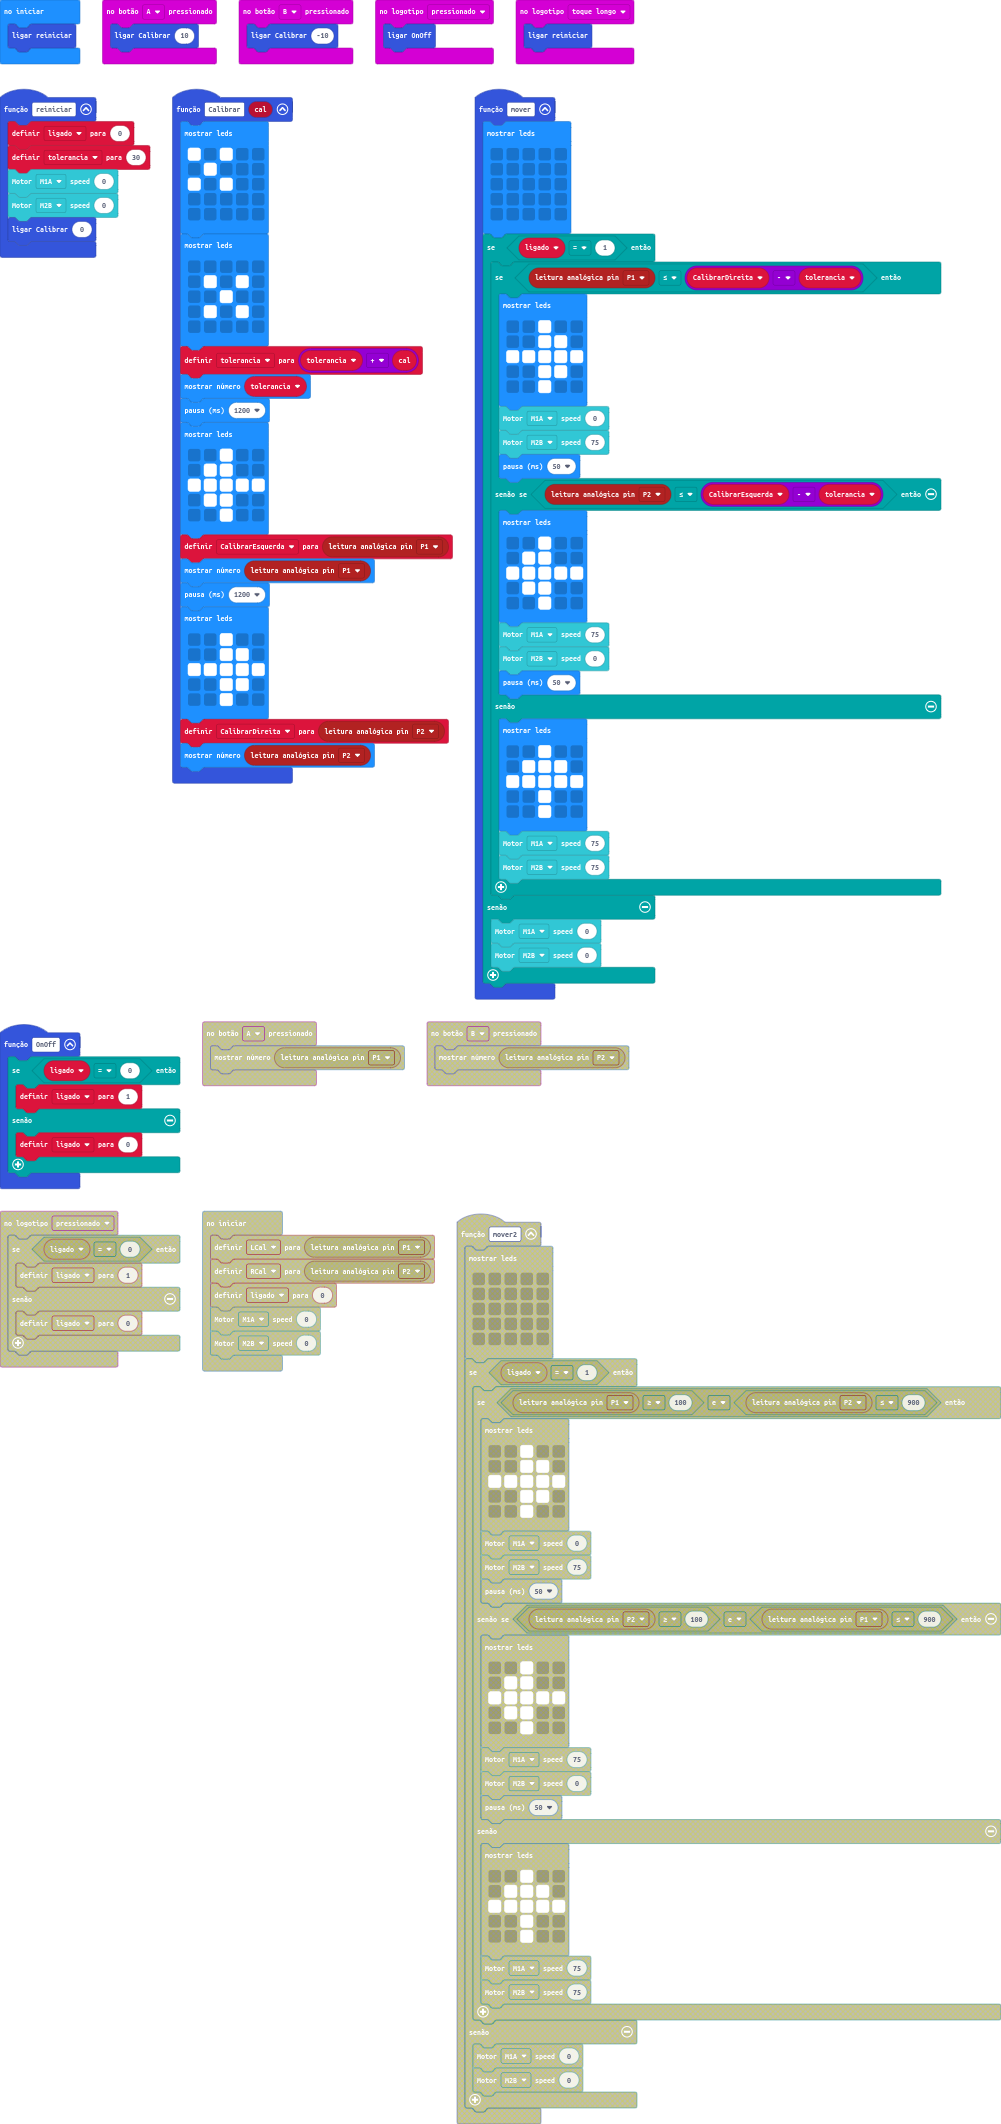
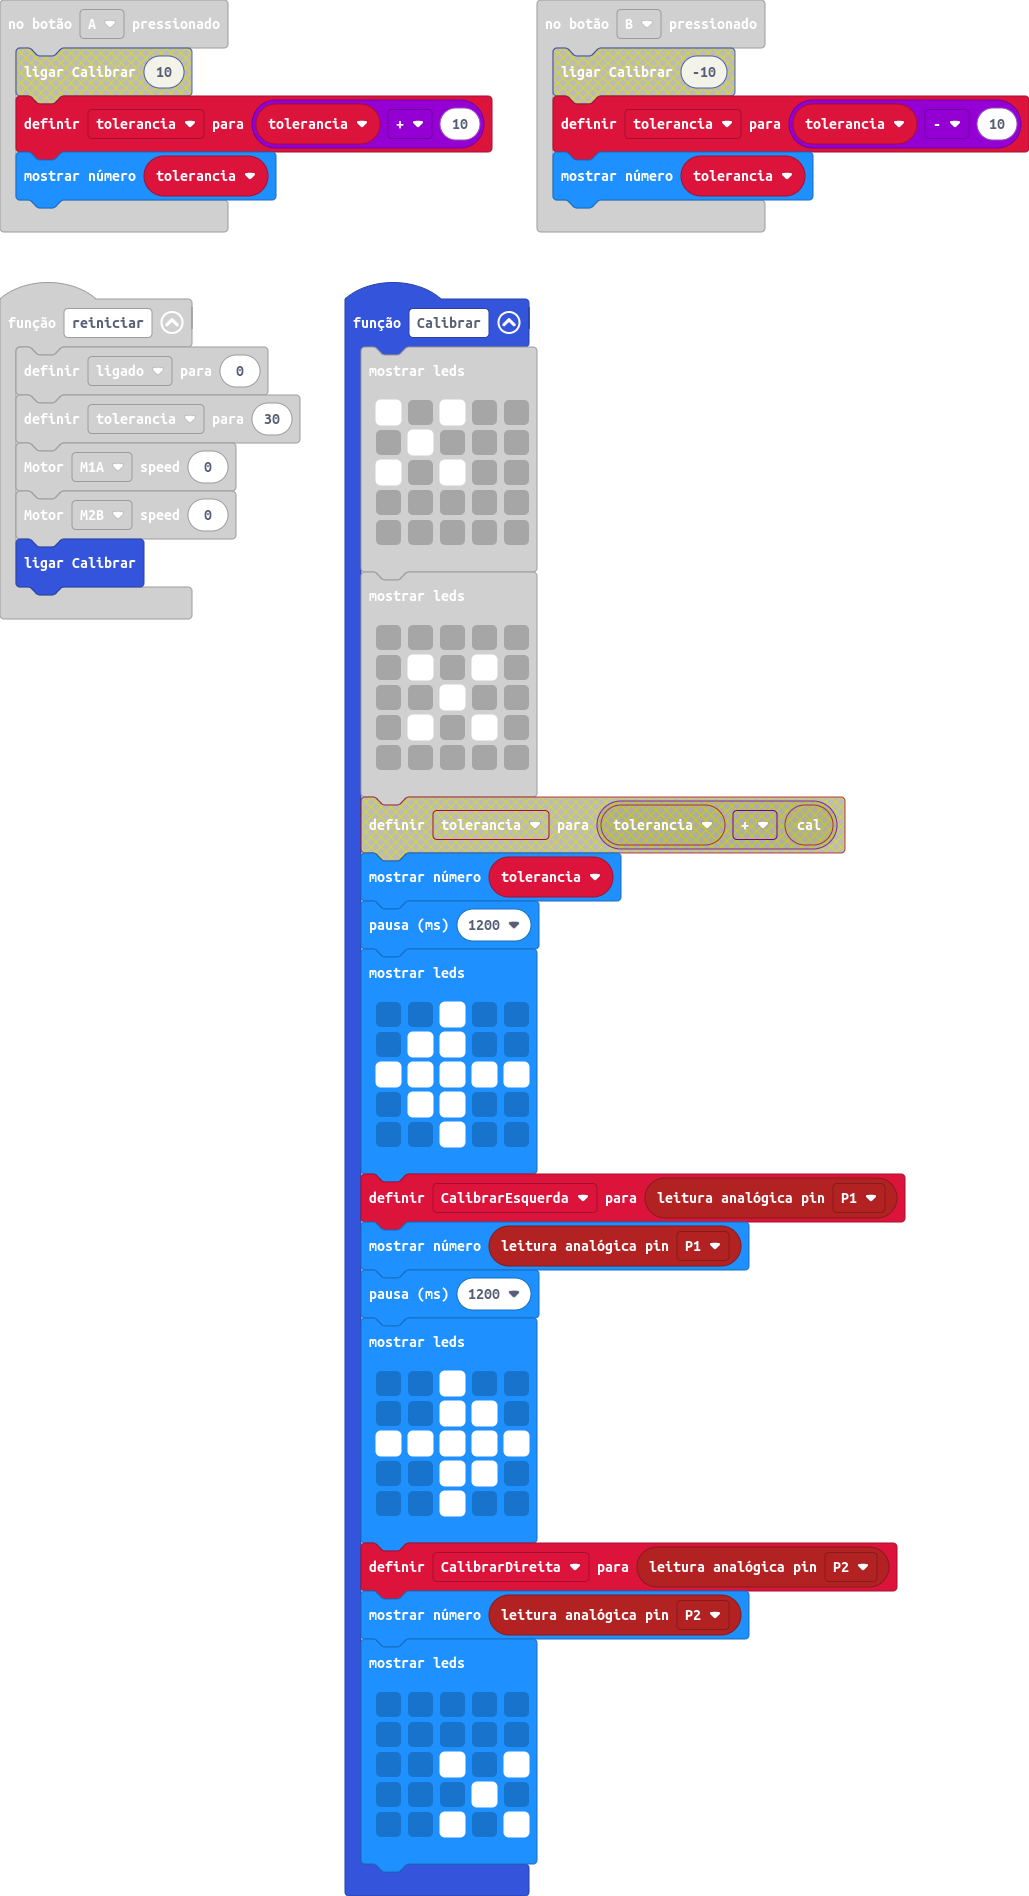
Atualizar 'main.blocks, main.ts'

diff --git a/main.ts b/main.ts
@@ -1,4 +1,4 @@
-function Calibrar (cal: number) {
+function Calibrar () {
     basic.showLeds(`
         # . # . .
         . # . . .
@@ -13,7 +13,13 @@ function Calibrar (cal: number) {
         . # . # .
         . . . . .
         `)
-    tolerancia = tolerancia + cal
+    basic.showLeds(`
+        . . . . .
+        . . . . .
+        . . # . #
+        . . . # .
+        . . # . #
+        `)
     basic.showNumber(tolerancia)
     basic.pause(1200)
     basic.showLeds(`
@@ -40,13 +46,15 @@ input.onLogoEvent(TouchButtonEvent.Pressed, function () {
     OnOff()
 })
 input.onButtonPressed(Button.A, function () {
-    Calibrar(10)
+    tolerancia = tolerancia + 10
+    basic.showNumber(tolerancia)
 })
 input.onLogoEvent(TouchButtonEvent.LongPressed, function () {
     reiniciar()
 })
 input.onButtonPressed(Button.B, function () {
-    Calibrar(-10)
+    tolerancia = tolerancia - 10
+    basic.showNumber(tolerancia)
 })
 function mover () {
     basic.showLeds(`
@@ -100,7 +108,7 @@ function reiniciar () {
     tolerancia = 30
     robotbit.MotorRun(robotbit.Motors.M1A, 0)
     robotbit.MotorRun(robotbit.Motors.M2B, 0)
-    Calibrar(0)
+    Calibrar()
 }
 function OnOff () {
     if (ligado == 0) {
